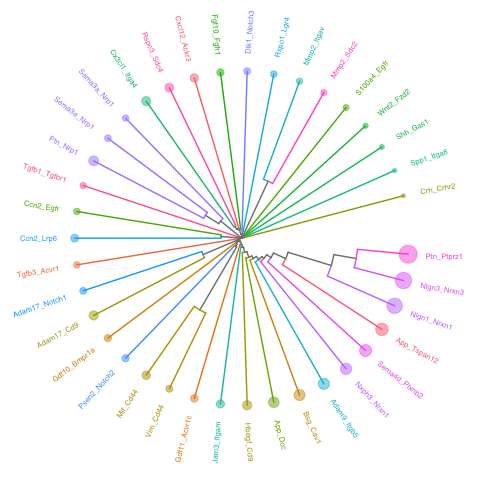
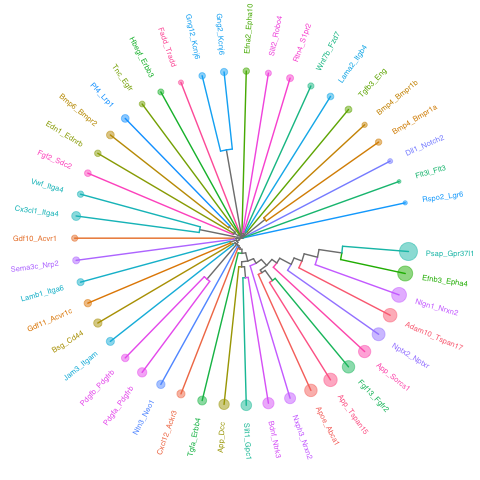
Add GitHub Action() workflow - use_github_action_check_standard().

diff --git a/README.md b/README.md
@@ -4,6 +4,8 @@
 # spatialCCC
 
 <!-- badges: start -->
+
+[![R-CMD-check](https://github.com/dolchan/spatialCCC/actions/workflows/R-CMD-check.yaml/badge.svg)](https://github.com/dolchan/spatialCCC/actions/workflows/R-CMD-check.yaml)
 <!-- badges: end -->
 
 The goal of spatialCCC is to investigate cell-cell signaling, by
@@ -78,16 +80,16 @@ LRdb_m %>%
 #> # A tibble: 105 × 10
 #>    LR    ligand_gene_symbol receptor_gene_symbol ligand_gene_id receptor_gene_id
 #>    <chr> <chr>              <chr>                         <dbl>            <dbl>
-#>  1 Adam… Adam17             Cd9                           11491            12527
-#>  2 Adam… Adam17             Notch1                        11491            18128
-#>  3 Adam… Adam17             Tnfrsf1b                      11491            21938
-#>  4 Adam… Adam9              Itgb5                         11502            16419
-#>  5 Adcy… Adcyap1            Dpp4                          11516            13482
-#>  6 Agt_… Agt                Agtr2                         11606            11609
-#>  7 Amh_… Amh                Acvr1                         11705            11477
-#>  8 Apoe… Apoe               Sdc1                          11816            20969
-#>  9 App_… App                Dcc                           11820            13176
-#> 10 App_… App                Tspan12                       11820           269831
+#>  1 Adam… Adam10             Tspan17                       11487            74257
+#>  2 Adam… Adam17             Itgb6                         11491            16420
+#>  3 Adip… Adipoq             Adipor1                       11450            72674
+#>  4 Agt_… Agt                Agtr1a                        11606            11607
+#>  5 Amh_… Amh                Amhr2                         11705           110542
+#>  6 Apoe… Apoe               Abca1                         11816            11303
+#>  7 Apoe… Apoe               Sdc1                          11816            20969
+#>  8 App_… App                Dcc                           11820            13176
+#>  9 App_… App                Sorcs1                        11820            58178
+#> 10 App_… App                Tspan15                       11820            70423
 #> # ℹ 95 more rows
 #> # ℹ 5 more variables: ligand_ensembl_protein_id <chr>,
 #> #   receptor_ensembl_protein_id <chr>, ligand_ensembl_gene_id <chr>,
@@ -119,7 +121,7 @@ ccc_tbl <- compute_spatial_ccc(spe = spe,
                                assay_name = "logcounts",
                                LRdb = LRdb_m)
 tictoc::toc()
-#> 18.334 sec elapsed
+#> 17.438 sec elapsed
 
 # future::plan(future::sequential)
 ```
@@ -127,20 +129,20 @@ tictoc::toc()
 ``` r
 ccc_tbl %>% 
   dplyr::arrange(desc(LRscore))
-#> # A tibble: 87,569 × 10
+#> # A tibble: 113,963 × 10
 #>    src          dst       d norm.d LR    ligand receptor LRscore weight WLRscore
 #>    <chr>        <chr> <dbl>  <dbl> <chr> <chr>  <chr>      <dbl>  <dbl>    <dbl>
-#>  1 AGAAGAGCGCC… CTGG…  138.   1.01 Nlgn… Nlgn3  Nrxn3      0.854  0.980    0.837
-#>  2 GACTAAGTAGG… ATGC…  138    1.01 Ptn_… Ptn    Ptprz1     0.849  0.986    0.837
-#>  3 GGAGCGAGGCC… CCTA…  138.   1.01 Ptn_… Ptn    Ptprz1     0.848  0.980    0.830
-#>  4 AAACAAGTATC… GGCA…  138.   1.01 Ptn_… Ptn    Ptprz1     0.848  0.987    0.836
-#>  5 AAACAAGTATC… GCAT…  138.   1.01 Ptn_… Ptn    Ptprz1     0.847  0.987    0.836
-#>  6 GCTTGATGATA… TTCT…  138.   1.01 Ptn_… Ptn    Ptprz1     0.847  0.987    0.836
-#>  7 CATGGATTGTC… GCGA…  138.   1.01 Ptn_… Ptn    Ptprz1     0.847  0.980    0.829
-#>  8 CGCAAACACGA… GTAA…  138.   1.01 Ptn_… Ptn    Ptprz1     0.847  0.980    0.829
-#>  9 GCTTGATGATA… GCCC…  138    1.01 Ptn_… Ptn    Ptprz1     0.847  0.986    0.834
-#> 10 GTGGTTACTTC… GTGA…  138.   1.00 Ptn_… Ptn    Ptprz1     0.846  0.992    0.839
-#> # ℹ 87,559 more rows
+#>  1 AATGCAACCGG… GCTC…  138.   1.01 Psap… Psap   Gpr37l1    0.868  0.980    0.850
+#>  2 CTGTGCAGGGT… CCTA…  138    1.01 Psap… Psap   Gpr37l1    0.866  0.986    0.854
+#>  3 AGTATTTGGCA… GGGC…  138.   1.01 Psap… Psap   Gpr37l1    0.866  0.987    0.854
+#>  4 TAGTGTCAGAA… GTTA…  138.   1.01 Psap… Psap   Gpr37l1    0.865  0.980    0.848
+#>  5 CGTGCTGGCCT… GGGT…  137    1    Psap… Psap   Gpr37l1    0.865  1        0.865
+#>  6 TTCAAAGTCTC… TATT…  138.   1.00 Psap… Psap   Gpr37l1    0.865  0.992    0.858
+#>  7 TTGCTGCACCT… GTTA…  138    1.01 Psap… Psap   Gpr37l1    0.865  0.986    0.852
+#>  8 TTGTTAGCAAA… TGCT…  138.   1.01 Psap… Psap   Gpr37l1    0.865  0.980    0.847
+#>  9 TCGTGTCACGC… CAAA…  138.   1.01 Psap… Psap   Gpr37l1    0.865  0.980    0.847
+#> 10 ATCGCACGCCG… GCTC…  138.   1.01 Psap… Psap   Gpr37l1    0.864  0.980    0.846
+#> # ℹ 113,953 more rows
 ```
 
 ### Convert CCC table to CCC graph
@@ -156,7 +158,7 @@ ccc_graph_list <-
   to_spatial_ccc_graph_list(ccc_tbl, sp_col_data, workers = 4)
 
 tictoc::toc()
-#> to_spatical_ccc_graph ...: 31.53 sec elapsed
+#> to_spatical_ccc_graph ...: 34.398 sec elapsed
 ```
 
 summarize_ccc_graph_metrics() summarize those graph metrics for each LR
@@ -169,26 +171,26 @@ ccc_graph_metrics_summary_df <-
   summarize_ccc_graph_metrics(ccc_graph_list)
 
 tictoc::toc()
-#> 0.187 sec elapsed
+#> 0.171 sec elapsed
 ```
 
 ``` r
 ccc_graph_metrics_summary_df %>%
   arrange(graph_component_count)
-#> # A tibble: 38 × 12
+#> # A tibble: 46 × 12
 #>    LR        graph_n_nodes graph_n_edges graph_component_count graph_motif_count
 #>    <chr>             <int>         <dbl>                 <dbl>             <int>
-#>  1 Nlgn3_Nr…          2595         11277                     3             23507
-#>  2 Ptn_Ptpr…          2691         14425                     3             27468
-#>  3 Nlgn1_Nr…          2627          9430                     3             20957
-#>  4 App_Tspa…          2461          5328                    11             13068
-#>  5 Sema4d_P…          2078          4840                    13             10292
-#>  6 Adam9_It…          1974          3965                    18              8156
-#>  7 Bsg_Cav1           2237          3813                    23              9423
-#>  8 Crh_Crhr2            86            61                    29                41
-#>  9 App_Dcc            1989          3267                    42              8152
-#> 10 Spp1_Itg…           120            73                    47                31
-#> # ℹ 28 more rows
+#>  1 Psap_Gpr…          2699         15374                     3             27988
+#>  2 Nlgn1_Nr…          2580          9213                     3             20396
+#>  3 Efnb3_Ep…          2570          9519                     4             21090
+#>  4 Apoe_Abc…          2548          5733                     5             14085
+#>  5 Adam10_T…          2316          7245                     5             15659
+#>  6 App_Tspa…          2514          6995                    10             16451
+#>  7 Nptx2_Np…          2326          6304                    12             14136
+#>  8 App_Sorc…          2378          5455                    14             13232
+#>  9 Fgf13_Fg…          2363          5649                    16             13251
+#> 10 Slit1_Gp…          1738          3594                    28              7540
+#> # ℹ 36 more rows
 #> # ℹ 7 more variables: graph_diameter <dbl>, graph_un_diameter <dbl>,
 #> #   graph_mean_dist <dbl>, graph_circuit_rank <dbl>, graph_reciprocity <dbl>,
 #> #   graph_clique_num <int>, graph_clique_count <int>
@@ -204,25 +206,25 @@ ccc_graph_group_metrics_summary_df <-
   summarize_ccc_graph_metrics(ccc_graph_list, level = "group")
 
 tictoc::toc()
-#> 0.127 sec elapsed
+#> 0.139 sec elapsed
 ```
 
 ``` r
 ccc_graph_group_metrics_summary_df 
-#> # A tibble: 3,029 × 12
-#>    LR       group group_n_nodes group_n_edges group_adhesion group_motif_count
-#>    <chr>    <int>         <int>         <dbl>          <dbl>             <int>
-#>  1 Bsg_Cav1     1          1913          3392              0              8432
-#>  2 Bsg_Cav1    19             5             4              0                 6
-#>  3 Bsg_Cav1     2            63           114              0               276
-#>  4 Bsg_Cav1    14             7             6              0                15
-#>  5 Bsg_Cav1     5            23            24              0                65
-#>  6 Bsg_Cav1     7            17            18              0                43
-#>  7 Bsg_Cav1    12             8             9              0                15
-#>  8 Bsg_Cav1     4            24            36              0                87
-#>  9 Bsg_Cav1    11            11            13              0                24
-#> 10 Bsg_Cav1     9            12            19              0                35
-#> # ℹ 3,019 more rows
+#> # A tibble: 3,422 × 12
+#>    LR         group group_n_nodes group_n_edges group_adhesion group_motif_count
+#>    <chr>      <int>         <int>         <dbl>          <dbl>             <int>
+#>  1 Efna2_Eph…    89             2             1              0                 0
+#>  2 Efna2_Eph…    13             8             9              0                12
+#>  3 Efna2_Eph…    24             6             6              0                 7
+#>  4 Efna2_Eph…    14             8             7              0                 9
+#>  5 Efna2_Eph…    10             9             9              0                11
+#>  6 Efna2_Eph…    90             2             1              0                 0
+#>  7 Efna2_Eph…    25             6             5              0                 5
+#>  8 Efna2_Eph…    91             2             1              0                 0
+#>  9 Efna2_Eph…     2            25            28              0                41
+#> 10 Efna2_Eph…    45             4             3              0                 3
+#> # ℹ 3,412 more rows
 #> # ℹ 6 more variables: group_diameter <dbl>, group_un_diameter <dbl>,
 #> #   group_mean_dist <dbl>, group_girth <dbl>, group_circuit_rank <dbl>,
 #> #   group_reciprocity <dbl>
@@ -294,7 +296,7 @@ cell_overlap_dist <-
   dist_cell_overlap_ccc_tbl(ccc_tbl)
 
 tictoc::toc()
-#> 0.48 sec elapsed
+#> 0.833 sec elapsed
 ```
 
 ``` r
@@ -304,7 +306,7 @@ cell_overlap_lf <-
   lf_cell_overlap_ccc_tbl(ccc_tbl)
 
 tictoc::toc()
-#> 0.551 sec elapsed
+#> 0.696 sec elapsed
 ```
 
 ``` r
@@ -327,7 +329,7 @@ high_cell_overlap_dist <-
   cell_overlap_dist[LRs_high_cell_overlap, LRs_high_cell_overlap]
 
 tictoc::toc()
-#> 0.002 sec elapsed
+#> 0.001 sec elapsed
 ```
 
 ``` r
@@ -340,7 +342,7 @@ high_cell_overlap_dist2 <-
   lf_to_dist()
 
 tictoc::toc()
-#> 0.016 sec elapsed
+#> 0.015 sec elapsed
 ```
 
 ``` r
